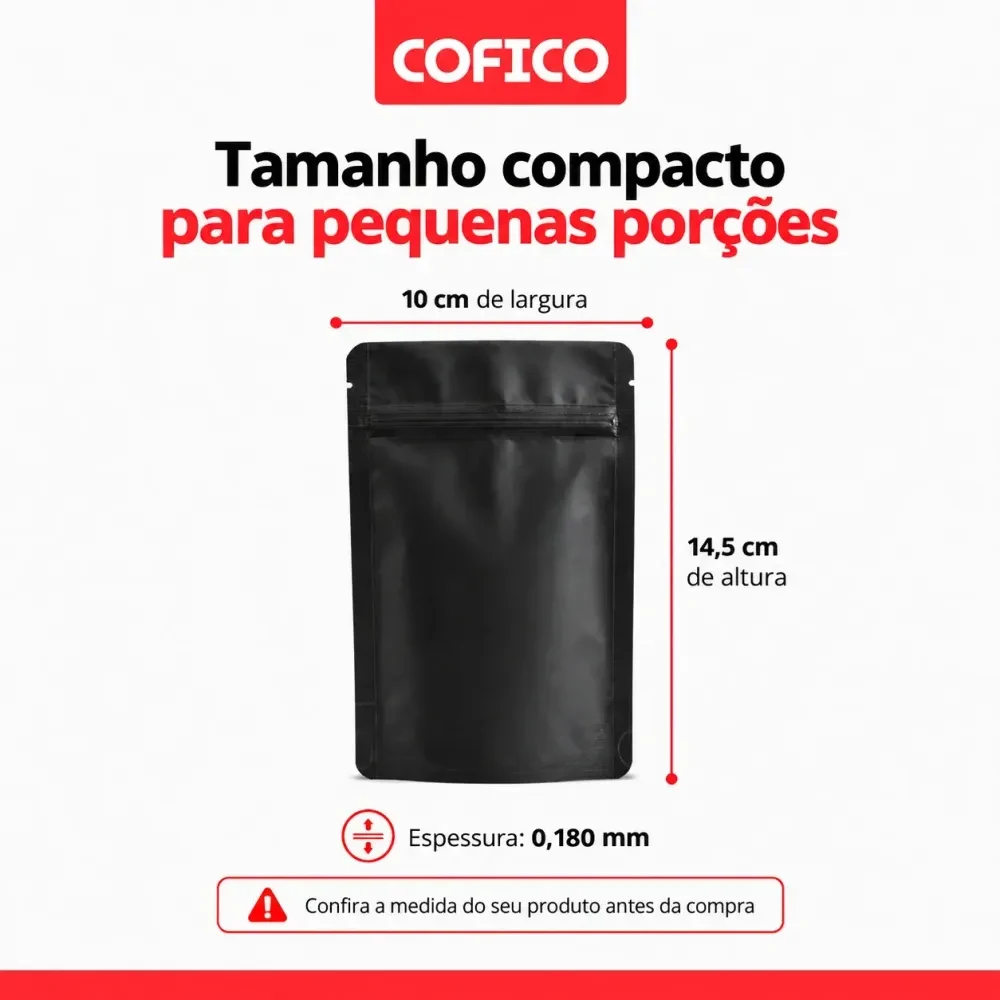
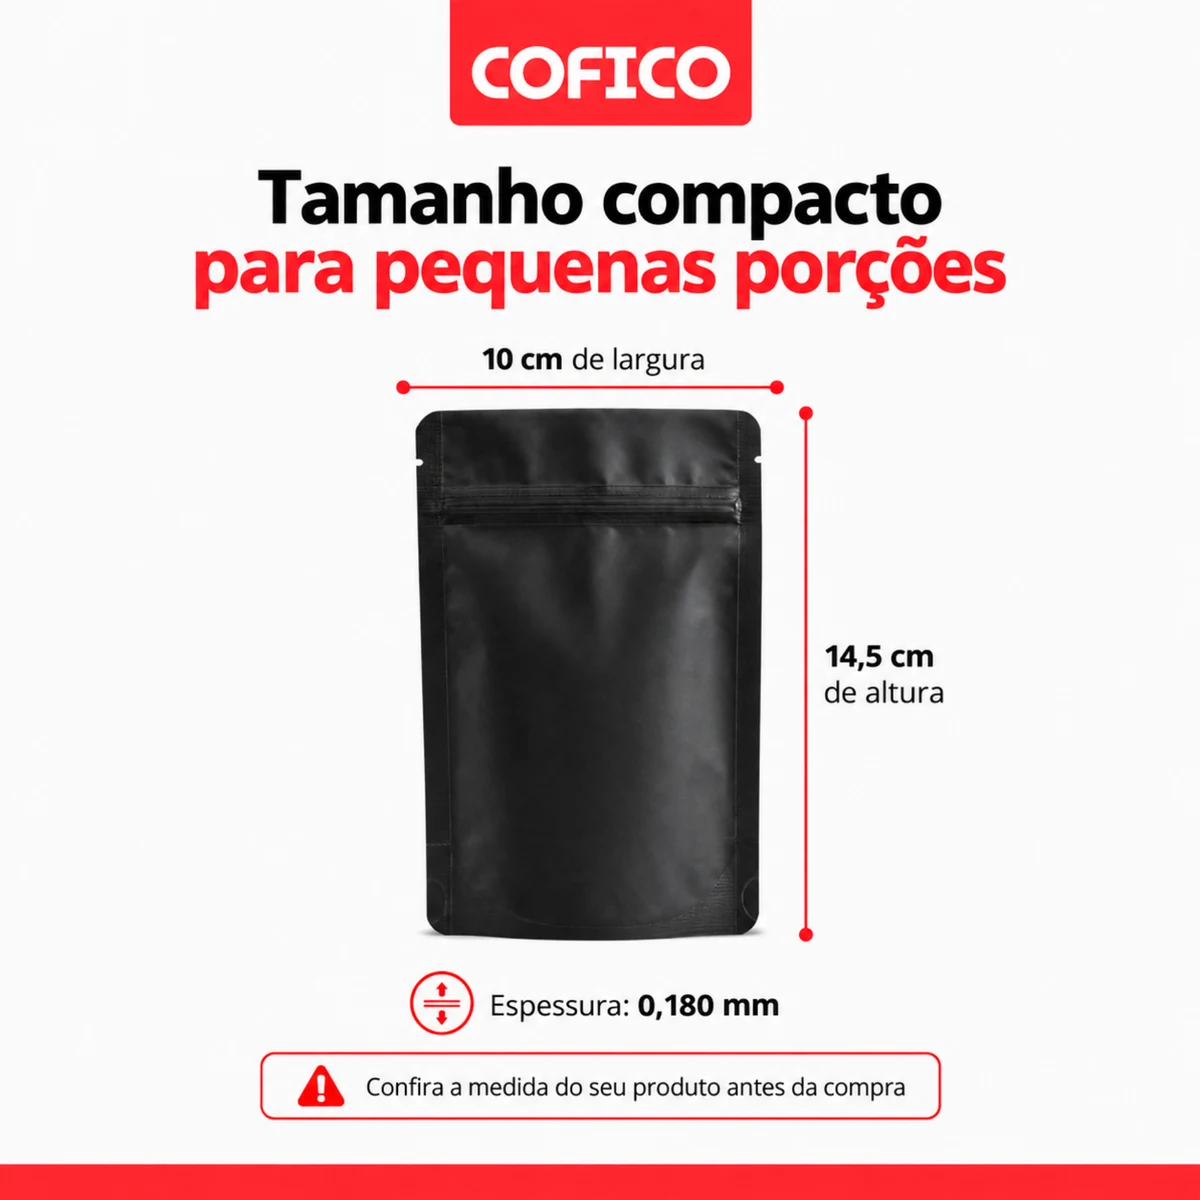
feat(cofico): foto grande do pouch com galeria e fotos sem fundo
- foto principal de 420 px com lightbox (Esc fecha) e miniaturas que trocam a foto
- uma embalagem por linha: o cliente precisa ver acabamento e zip antes de pedir orcamento
- fotos do stand up pouch 50 g refeitas sem fundo (produto transparente, artes 1200 px)
- SKU do pouch passa a ser SUPPF1014COFI-1000

diff --git a/src/pages/coficobrasil/CardEmbalagem.tsx b/src/pages/coficobrasil/CardEmbalagem.tsx
@@ -1,12 +1,24 @@
-import { useState } from 'react';
+import { useEffect, useState } from 'react';
+import { createPortal } from 'react-dom';
+import { X, Expand } from 'lucide-react';
 import CompartilharWhats from './CompartilharWhats';
 import { MINIMO_PADRAO, type EmbalagemItem } from './embalagens';
 
-// Card de embalagem com galeria: a foto principal troca ao clicar nos quadrinhos.
-// Serve para mostrar medida, usos e o que não acompanha sem poluir o card.
+// Card de embalagem com galeria: os quadrinhos trocam a foto principal, e clicar na foto
+// principal abre ela em tela cheia. Quem compra embalagem precisa VER a medida e o
+// acabamento — miniatura não decide compra.
 export default function CardEmbalagem({ item, ancora }: { item: EmbalagemItem; ancora: string }) {
   const fotos = [item.foto, ...(item.fotos ?? [])].filter(Boolean) as string[];
   const [atual, setAtual] = useState(0);
+  const [ampliada, setAmpliada] = useState(false);
+
+  useEffect(() => {
+    if (!ampliada) return;
+    const fechar = (e: KeyboardEvent) => { if (e.key === 'Escape') setAmpliada(false); };
+    window.addEventListener('keydown', fechar);
+    return () => window.removeEventListener('keydown', fechar);
+  }, [ampliada]);
+
   const linha = (rotulo: string, valor?: string, mono = false) => valor ? (
     <div className="flex justify-between gap-3">
       <dt className="text-neutral-500">{rotulo}</dt>
@@ -15,38 +27,69 @@ export default function CardEmbalagem({ item, ancora }: { item: EmbalagemItem; a
   ) : null;
 
   return (
-    <article className="border border-neutral-200 p-6 flex flex-col">
+    <article className="border border-neutral-200 p-6 grid gap-8 sm:grid-cols-[minmax(0,420px)_minmax(0,1fr)] items-start">
+      {/* Foto grande à esquerda, miniaturas embaixo — quem compra embalagem decide pelo que vê. */}
       {fotos.length > 0 && (
-        <>
-          <div className="aspect-square flex items-center justify-center">
+        <div>
+          <button type="button" onClick={() => setAmpliada(true)}
+            title="Ver a foto grande" aria-label={`Ver ${item.nome} em tamanho grande`}
+            className="group relative w-full aspect-square flex items-center justify-center cursor-zoom-in bg-white">
             <img src={fotos[atual]} alt={item.nome} className="w-full h-full object-contain"
               onError={(e) => { e.currentTarget.style.display = 'none'; }} />
-          </div>
+            <span className="absolute bottom-1 right-1 inline-flex items-center gap-1 bg-white/90 border border-neutral-200 text-[11px] font-semibold text-neutral-600 px-2 py-1 opacity-0 group-hover:opacity-100 transition-opacity">
+              <Expand className="w-3 h-3" aria-hidden="true" /> ampliar
+            </span>
+          </button>
           {fotos.length > 1 && (
-            <div className="mt-3 flex gap-2">
+            <div className="mt-3 flex flex-wrap gap-2">
               {fotos.map((f, i) => (
                 <button key={f} type="button" onClick={() => setAtual(i)}
                   aria-label={`Foto ${i + 1} de ${item.nome}`} aria-current={i === atual}
-                  className={`w-12 h-12 border p-1 transition-colors ${i === atual ? 'border-cofico-ink' : 'border-neutral-200 hover:border-neutral-400'}`}>
+                  className={`w-16 h-16 border p-1 transition-colors ${i === atual ? 'border-cofico-ink' : 'border-neutral-200 hover:border-neutral-400'}`}>
                   <img src={f} alt="" className="w-full h-full object-contain" />
                 </button>
               ))}
             </div>
           )}
-        </>
+        </div>
       )}
-      <h3 className="mt-4 text-base font-semibold leading-snug">{item.nome}</h3>
-      {item.detalhes?.length ? (
-        <p className="mt-2 text-sm text-neutral-600 flex-1">{item.detalhes.join(' · ')}</p>
-      ) : <span className="flex-1" />}
-      <dl className="mt-4 text-sm border-t border-neutral-200 pt-3 space-y-1">
-        {linha('Capacidade', item.capacidade)}
-        {linha('Medidas', item.medidas)}
-        {linha('Cor', item.cor)}
-        {linha('Mínimo', item.minimo ?? MINIMO_PADRAO)}
-        {linha('Código', item.codigo, true)}
-      </dl>
-      <CompartilharWhats titulo={item.nome} ancora={ancora} />
+      <div className="flex flex-col h-full">
+        <h3 className="text-lg font-semibold leading-snug">{item.nome}</h3>
+        {item.detalhes?.length ? (
+          <p className="mt-2 text-sm text-neutral-600">{item.detalhes.join(' · ')}</p>
+        ) : null}
+        <dl className="mt-4 text-sm border-t border-neutral-200 pt-3 space-y-1">
+          {linha('Capacidade', item.capacidade)}
+          {linha('Medidas', item.medidas)}
+          {linha('Cor', item.cor)}
+          {linha('Mínimo', item.minimo ?? MINIMO_PADRAO)}
+          {linha('Código', item.codigo, true)}
+        </dl>
+        <CompartilharWhats titulo={item.nome} ancora={ancora} />
+      </div>
+
+      {ampliada && createPortal(
+        <div className="fixed inset-0 z-[80] bg-black/80 flex items-center justify-center p-4" onClick={() => setAmpliada(false)}>
+          <button type="button" onClick={() => setAmpliada(false)} aria-label="Fechar"
+            className="absolute top-4 right-4 p-2 text-white/80 hover:text-white"><X className="w-6 h-6" /></button>
+          <figure className="max-w-4xl w-full" onClick={e => e.stopPropagation()}>
+            <img src={fotos[atual]} alt={item.nome} className="w-full max-h-[80vh] object-contain bg-white" />
+            <figcaption className="mt-3 text-center text-sm text-white/80">{item.nome}</figcaption>
+            {fotos.length > 1 && (
+              <div className="mt-4 flex justify-center gap-2">
+                {fotos.map((f, i) => (
+                  <button key={f} type="button" onClick={() => setAtual(i)}
+                    aria-label={`Foto ${i + 1}`} aria-current={i === atual}
+                    className={`w-16 h-16 border p-1 bg-white ${i === atual ? 'border-white' : 'border-white/30 hover:border-white/70'}`}>
+                    <img src={f} alt="" className="w-full h-full object-contain" />
+                  </button>
+                ))}
+              </div>
+            )}
+          </figure>
+        </div>,
+        document.body,
+      )}
     </article>
   );
 }

diff --git a/src/pages/coficobrasil/CoficoEmbalagensPage.tsx b/src/pages/coficobrasil/CoficoEmbalagensPage.tsx
@@ -91,7 +91,11 @@ export default function CoficoEmbalagensPage() {
                 <a href={WA_EMBALAGEM} target="_blank" rel="noopener noreferrer" className="font-semibold text-cofico-ink hover:underline">Peça o orçamento</a> com o tamanho do seu pacote.
               </p>
             )}
-            <div className="mt-10 grid gap-6 sm:grid-cols-2 lg:grid-cols-4">
+            {/* 3 por linha: com 4, o card ficava estreito e a embalagem, pequena demais
+                para quem precisa ver acabamento e medida antes de pedir orçamento. */}
+            {/* Uma embalagem por linha: a foto precisa ser grande o bastante para o cliente
+                ver acabamento, zip e proporção antes de pedir orçamento. */}
+            <div className="mt-10 grid gap-6">
               {grupo.itens.map(item => (
                 <CardEmbalagem key={item.nome} item={item} ancora={grupo.id} />
               ))}

diff --git a/src/pages/coficobrasil/embalagens.ts b/src/pages/coficobrasil/embalagens.ts
@@ -49,6 +49,7 @@ export const EMBALAGENS: GrupoEmbalagem[] = [
         capacidade: '50 g',
         medidas: '10 × 14,5 cm',
         cor: 'preto fosco',
+        codigo: 'SUPPF1014COFI-1000',
         detalhes: ['Zip para fechar de novo', 'Fica em pé', 'Espessura 0,180 mm'],
         foto: '/cofico/pouch-preto-50g.webp',
         fotos: [
